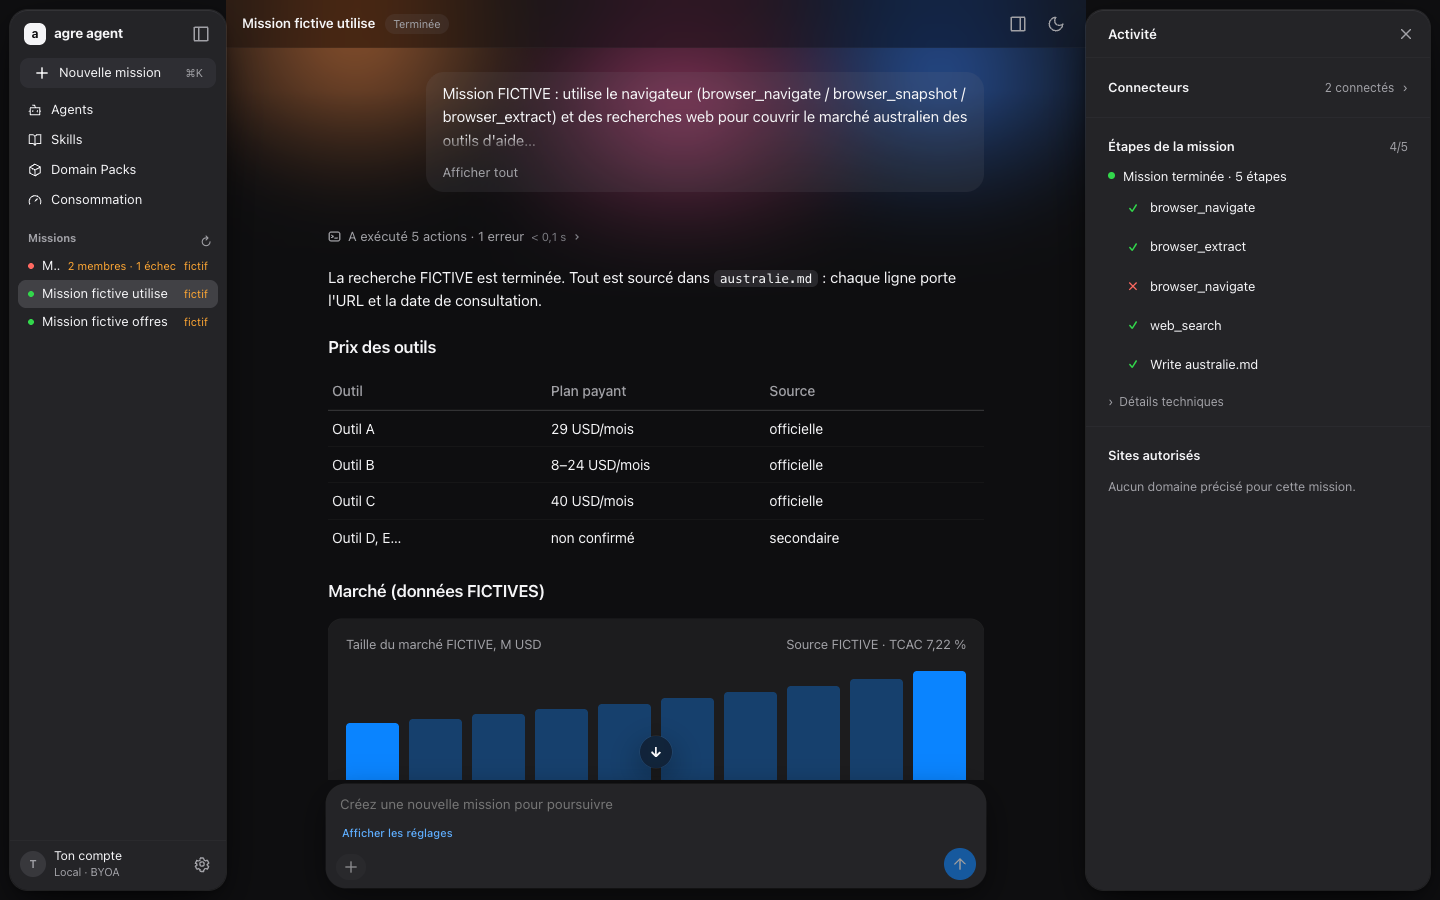
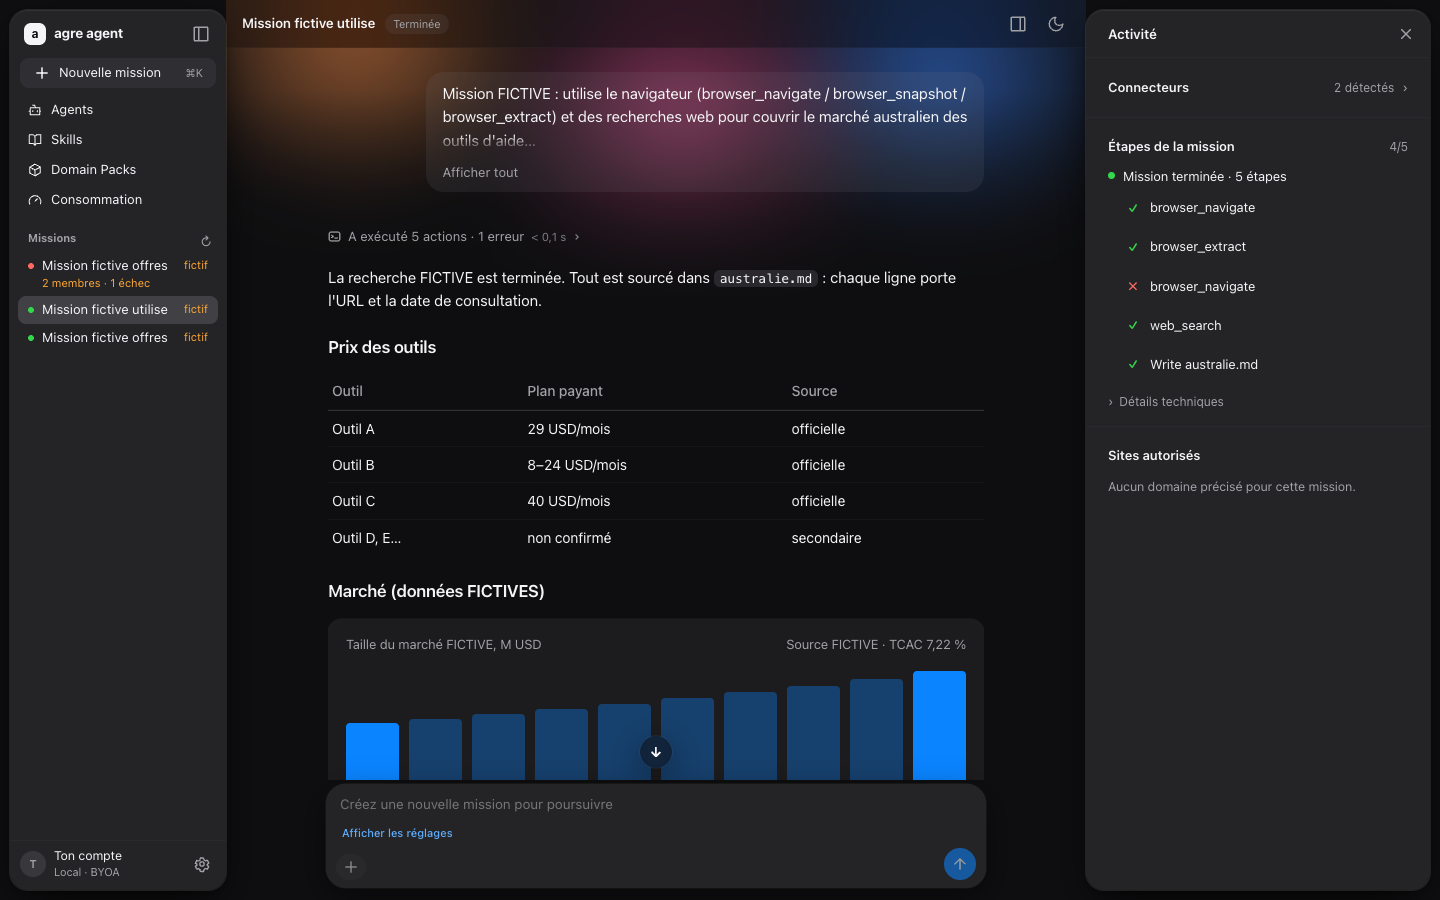
[test-ui-21-11] Liste : résumé d'équipe sur une seconde ligne, le titre se lit en entier ; scripts de captures alignés sur le menu de l'accueil ; captures « après » refaites

diff --git a/src/v2.css b/src/v2.css
@@ -1509,12 +1509,20 @@ fieldset.question-field label {
 }
 
 /* swarm-11 : résumé d'équipe d'une ligne de la liste, accord court, motif et jetons d'un membre */
-/* 21/11 (test complet) : en `flex: none`, le résumé écrasait le titre (largeur 0). Le titre garde la
-   place ; le résumé prend au plus 45 % et se termine par « … », entier en infobulle. */
+/* 21/11 (test complet) : en `flex: none`, le résumé écrasait le titre (largeur 0, puis « Missi… »).
+   Le titre garde sa ligne ; le résumé passe dessous, terminé par « … » si besoin, entier en infobulle. */
+.mission-link:has(> small.team-summary) {
+  height: auto;
+  min-height: 28px;
+  flex-wrap: wrap;
+  row-gap: 0;
+  padding-block: 4px;
+}
 .mission-link small.team-summary {
-  flex: 0 1 auto;
+  order: 3;
+  flex: 1 0 100%;
   min-width: 0;
-  max-width: 45%;
+  padding-left: 14px;
   overflow: hidden;
   text-overflow: ellipsis;
   white-space: nowrap;
